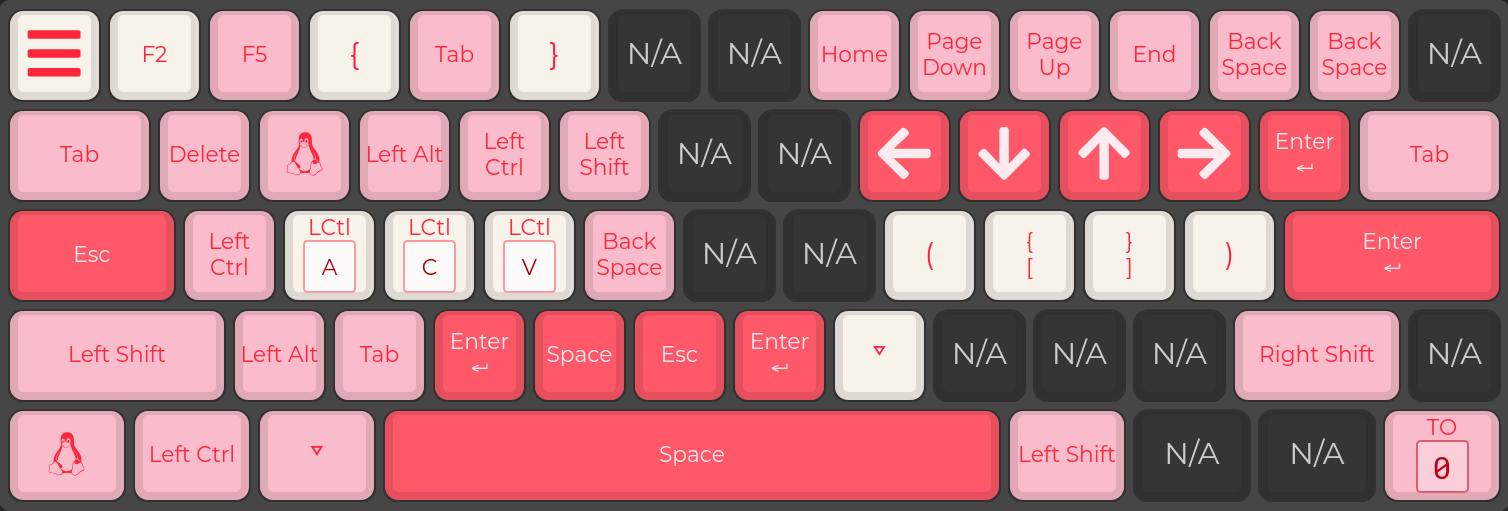
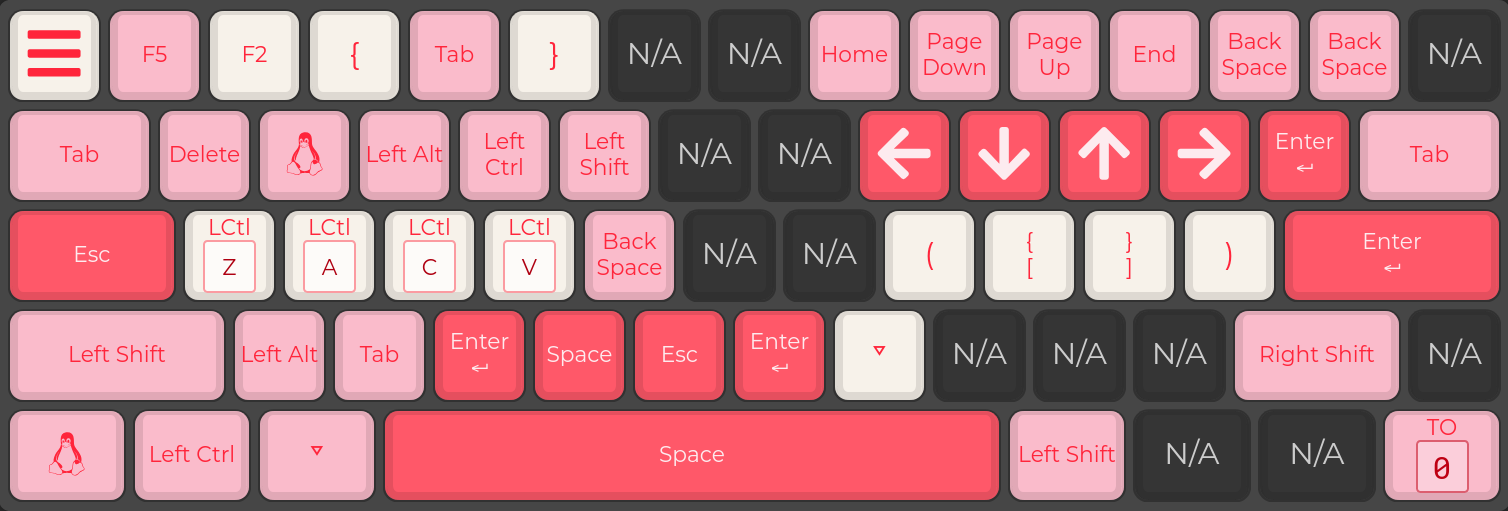
Fix LC used instead of LCTL; Swap F2, F5

Changed region(s): [[0.0623, 0.0, 0.2182, 0.2055], [0.1247, 0.411, 0.187, 0.5871]]

diff --git a/keyboards/royal_kludge/rk61/keymaps/pseudo_split/keymap.c b/keyboards/royal_kludge/rk61/keymaps/pseudo_split/keymap.c
@@ -91,11 +91,11 @@ const uint16_t PROGMEM keymaps[][MATRIX_ROWS][MATRIX_COLS] = {
     [_MVMT] = LAYOUT_all(
 
 //     ,----------+----------+----------+----------+----------+----------+----------+----------+----------+----------+----------+----------+----------+---------------.
-        KC_APP,    KC_F2,     KC_F5,     KC_LCBR,   KC_TAB,    KC_RCBR,   KC_NO,     KC_NO,     KC_HOME,   KC_PGDN,   KC_PGUP,   KC_END,    KC_BSPC,   KC_BSPC,KC_NO,
+        KC_APP,    KC_F5,     KC_F2,     KC_LCBR,   KC_TAB,    KC_RCBR,   KC_NO,     KC_NO,     KC_HOME,   KC_PGDN,   KC_PGUP,   KC_END,    KC_BSPC,   KC_BSPC,KC_NO,
 //     |----------+----------+----------+----------+----------+----------+----------+----------+----------+----------+----------+----------+----------+---------------|
-        KC_TAB,    KC_DEL,    KC_LGUI,   KC_LALT,   KC_LCTL,   KC_LSFT,   KC_NO,     KC_NO,     KC_LEFT,   KC_DOWN,   KC_UP,     KC_RGHT,   KC_ENT,
+        KC_TAB,    KC_DEL,    KC_LGUI,   KC_LALT,   KC_LCTL,   KC_LSFT,   KC_NO,     KC_NO,     KC_LEFT,   KC_DOWN,   KC_UP,     KC_RGHT,   KC_ENT,    KC_TAB,
 //     |----------+----------+----------+----------+----------+----------+----------+----------+----------+----------+----------+----------+----------+---------------|
-        KC_TAB,    KC_ESC,    KC_LCTL,   LC(KC_A),  LC(KC_C),  LC(KC_V),  KC_BSPC,   KC_NO,     KC_NO,     KC_LPRN,   KC_LBRC,   KC_RBRC,   KC_RPRN,   KC_ENT,
+        KC_ESC, LCTL(KC_Z), LCTL(KC_A), LCTL(KC_C), LCTL(KC_V), KC_BSPC,  KC_NO,     KC_NO,     KC_LPRN,   KC_LBRC,   KC_RBRC,   KC_RPRN,   KC_ENT,
 //     |----------+----------+----------+----------+----------+----------+----------+----------+----------+----------+----------+----------+--------------------------|
         KC_LSFT,              KC_LALT,   KC_TAB,    KC_ENT,    KC_SPC,    KC_ESC,    KC_ENT,    KC_TRNS,   KC_NO,     KC_NO,     KC_NO,     KC_RSFT,KC_NO,KC_NO,
 //     |----------+----------+----------+----------+----------+----------+----------+----------+----------+----------+----------+----------+--------------------------|
